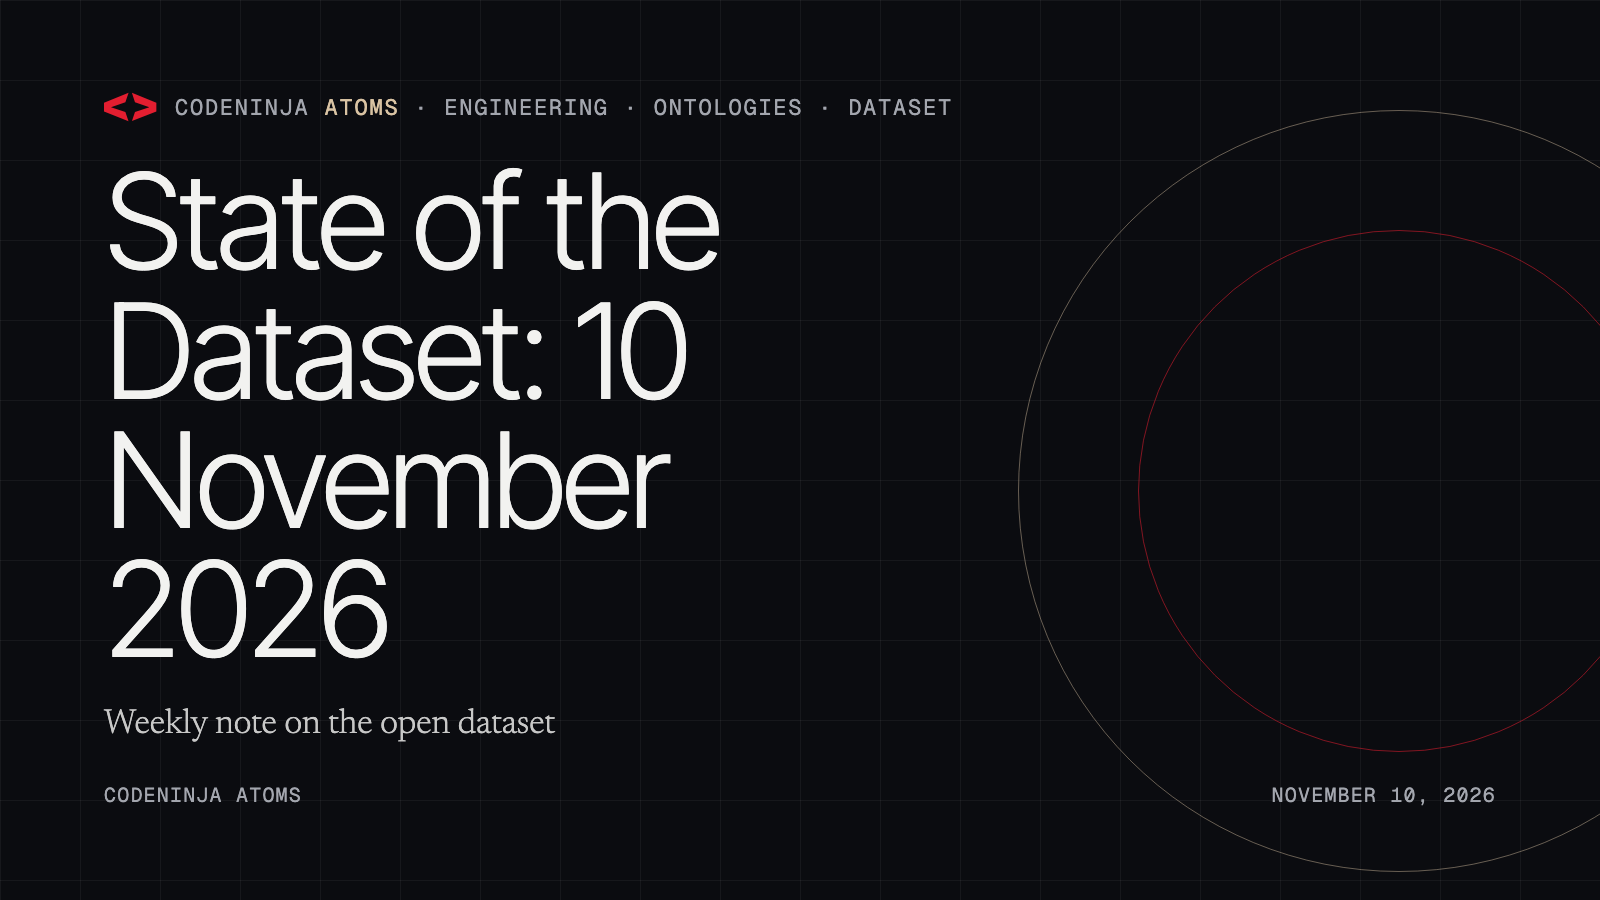
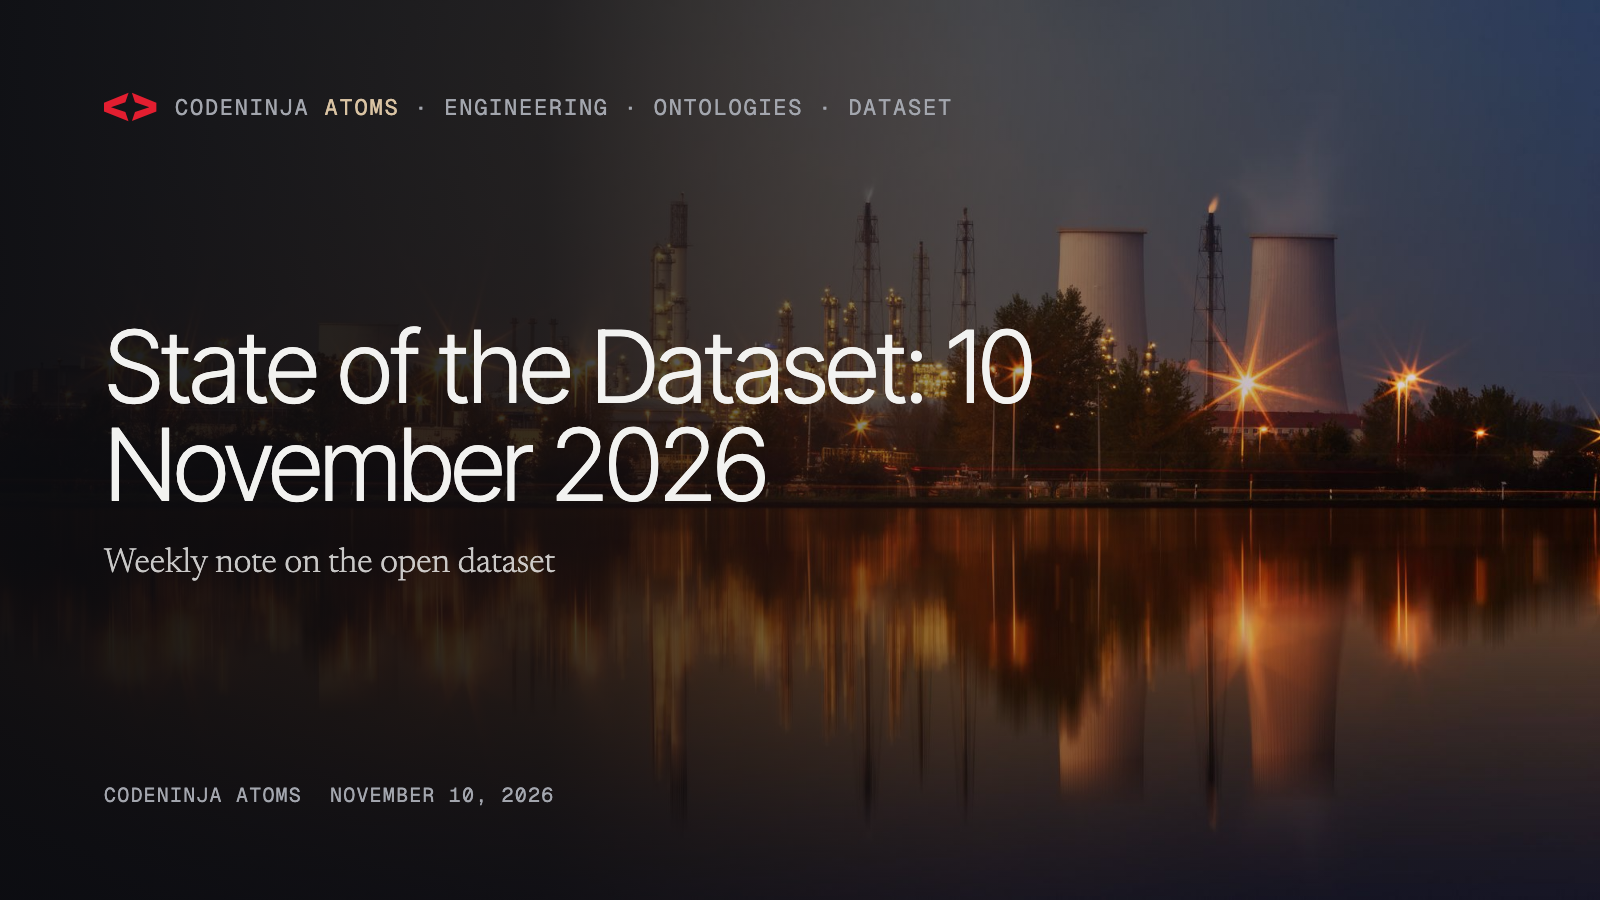
Blog covers are real photos: dataset note 10 Nov gets a process plant cover; blog.py refuses a post from 10 Nov without cover_photo
Umar, 10 Nov 2026: every blog cover is a real photo of the physical world under the CodeNinja Atoms mark, like the 18 Oct truck cover. The note's photo is Pexels 3105242 (Johannes Plenio, Pexels License), checked as an image: no legible operator name, sign or maker logo (a port crane photo and a plant photo carrying a maker's sign were rejected). Only the note's files and the tool are committed; every other rebuilt page was checked out.

diff --git a/blog/state-of-the-dataset-2026-11-10/index.html b/blog/state-of-the-dataset-2026-11-10/index.html
@@ -2,8 +2,8 @@
 <title>State of the Dataset: 10 November 2026 | CodeNinja Atoms</title><meta name="description" content="Weekly dataset note: 44 designs, 643 ontology objects, 565 register rows, 12 of 13 sectors, 16 new designs and the 12 cells still empty."><link rel="canonical" href="https://codeatoms.ai/blog/state-of-the-dataset-2026-11-10/">
 <link rel="alternate" type="application/atom+xml" href="https://codeatoms.ai/blog/feed.xml" title="CodeNinja Atoms engineering blog">
 <meta property="og:type" content="article"><meta property="og:title" content="State of the Dataset: 10 November 2026 | CodeNinja Atoms"><meta property="og:description" content="Weekly dataset note: 44 designs, 643 ontology objects, 565 register rows, 12 of 13 sectors, 16 new designs and the 12 cells still empty."><meta property="og:url" content="https://codeatoms.ai/blog/state-of-the-dataset-2026-11-10/">
-<meta property="og:image" content="https://codeatoms.ai/blog/state-of-the-dataset-2026-11-10/cover.png?v=bae5a255"><meta property="article:published_time" content="2026-11-10"><meta property="article:author" content="CodeNinja Atoms"><meta property="article:tag" content="Engineering"><meta property="article:tag" content="Ontologies"><meta property="article:tag" content="Dataset">
-<script type="application/ld+json">{"@context": "https://schema.org", "@type": "BlogPosting", "headline": "State of the Dataset: 10 November 2026", "description": "Weekly dataset note: 44 designs, 643 ontology objects, 565 register rows, 12 of 13 sectors, 16 new designs and the 12 cells still empty.", "alternativeHeadline": "Forty four published designs, 643 ontology objects and 565 register rows, covering twelve of thirteen sectors and twenty seven of the thirty nine cells in the sector by country grid.", "image": "https://codeatoms.ai/blog/state-of-the-dataset-2026-11-10/cover.png?v=bae5a255", "url": "https://codeatoms.ai/blog/state-of-the-dataset-2026-11-10/", "mainEntityOfPage": "https://codeatoms.ai/blog/state-of-the-dataset-2026-11-10/", "datePublished": "2026-11-10", "dateModified": "2026-11-10", "inLanguage": "en", "wordCount": 1305, "timeRequired": "PT6M", "keywords": ["Engineering", "Ontologies", "Dataset"], "articleSection": "Engineering", "license": "https://creativecommons.org/licenses/by/4.0/", "author": {"@type": "Person", "name": "CodeNinja Atoms", "jobTitle": "Research distribution", "url": null, "sameAs": null, "image": null}, "publisher": {"@type": "Organization", "@id": "https://codeatoms.ai/#org", "name": "CodeNinja Atoms", "url": "https://codeatoms.ai/", "logo": {"@type": "ImageObject", "url": "https://codeatoms.ai/icon-512.png"}}, "isPartOf": {"@type": "Blog", "@id": "https://codeatoms.ai/blog/#blog", "name": "CodeNinja Atoms engineering blog", "url": "https://codeatoms.ai/blog/"}, "citation": []}</script>
+<meta property="og:image" content="https://codeatoms.ai/blog/state-of-the-dataset-2026-11-10/cover.png?v=708e6743"><meta property="article:published_time" content="2026-11-10"><meta property="article:author" content="CodeNinja Atoms"><meta property="article:tag" content="Engineering"><meta property="article:tag" content="Ontologies"><meta property="article:tag" content="Dataset">
+<script type="application/ld+json">{"@context": "https://schema.org", "@type": "BlogPosting", "headline": "State of the Dataset: 10 November 2026", "description": "Weekly dataset note: 44 designs, 643 ontology objects, 565 register rows, 12 of 13 sectors, 16 new designs and the 12 cells still empty.", "alternativeHeadline": "Forty four published designs, 643 ontology objects and 565 register rows, covering twelve of thirteen sectors and twenty seven of the thirty nine cells in the sector by country grid.", "image": "https://codeatoms.ai/blog/state-of-the-dataset-2026-11-10/cover.png?v=708e6743", "url": "https://codeatoms.ai/blog/state-of-the-dataset-2026-11-10/", "mainEntityOfPage": "https://codeatoms.ai/blog/state-of-the-dataset-2026-11-10/", "datePublished": "2026-11-10", "dateModified": "2026-11-10", "inLanguage": "en", "wordCount": 1305, "timeRequired": "PT6M", "keywords": ["Engineering", "Ontologies", "Dataset"], "articleSection": "Engineering", "license": "https://creativecommons.org/licenses/by/4.0/", "author": {"@type": "Person", "name": "CodeNinja Atoms", "jobTitle": "Research distribution", "url": null, "sameAs": null, "image": null}, "publisher": {"@type": "Organization", "@id": "https://codeatoms.ai/#org", "name": "CodeNinja Atoms", "url": "https://codeatoms.ai/", "logo": {"@type": "ImageObject", "url": "https://codeatoms.ai/icon-512.png"}}, "isPartOf": {"@type": "Blog", "@id": "https://codeatoms.ai/blog/#blog", "name": "CodeNinja Atoms engineering blog", "url": "https://codeatoms.ai/blog/"}, "citation": []}</script>
 <link rel="preconnect" href="https://fonts.googleapis.com"><link rel="preconnect" href="https://fonts.gstatic.com" crossorigin><link href="https://fonts.googleapis.com/css2?family=Inter+Tight:wght@200;300;400;500&family=Geist+Mono:wght@400&family=Newsreader:opsz,wght@6..72,300;6..72,400&display=swap" rel="stylesheet"><script>document.documentElement.classList.add('js')</script><style>:root{--sans:"Inter Tight","Helvetica Neue",Arial,sans-serif;--mono:"Geist Mono","IBM Plex Mono",ui-monospace,Menlo,monospace;--serif:"Newsreader","Source Serif 4",Georgia,serif;
 --night:#0B0C10;--night2:#121319;--on-dark:#F2F2F0;--muted-d:#A3A6AE;--rule-d:rgba(255,255,255,.14);
 --paper:#F5F5F3;--paper2:#EFEFEF;--ink:#1E1F2B;--muted-l:#666874;--rule-l:rgba(30,31,43,.14);--red:#E31E30;--gutter:40px;--max:1280px}

diff --git a/tools/blog.py b/tools/blog.py
@@ -126,6 +126,10 @@ def cover(p):
     # Optional photo cover (Umar, 18 Oct 2026): front matter "cover_photo" names an image in blog/<slug>/; it fills the
     # tile under a left-to-right dark wash so the title stays readable. Posts without it keep the grid and rings.
     photo = p.get("cover_photo")
+    # Real photo covers are the rule from 10 Nov 2026 (Umar): a newer post without one stops the build instead of
+    # silently getting the abstract tile. Older posts keep their tiles until they are given a photo.
+    if not photo and p.get("date", "") >= "2026-11-10":
+        raise SystemExit(f"blog: {p['slug']} has no cover_photo; every post from 10 Nov 2026 needs a real physical-world photo cover")
     if photo:  # keep the title on two lines in the dark half, clear of the subject on the right
         fs, mw = min(fs, 100), "18ch"
     backdrop = (f'<div style="position:absolute;inset:0;background:url({E(photo)}) {E(p.get("cover_position", "center"))}/cover no-repeat"></div>'

diff --git a/blog/posts/state-of-the-dataset-2026-11-10.md b/blog/posts/state-of-the-dataset-2026-11-10.md
@@ -13,6 +13,9 @@
  ],
  "audience": "For engineers and their coding agents who build on the open dataset of physical AI system designs and want to know what is in it this week, what is new and where the gaps are.",
  "description": "Weekly dataset note: 44 designs, 643 ontology objects, 565 register rows, 12 of 13 sectors, 16 new designs and the 12 cells still empty.",
+ "cover_photo": "plant.jpg",
+ "cover_position": "center",
+ "cover_credit": "Photo by Johannes Plenio on Pexels (https://www.pexels.com/photo/3105242/), Pexels License",
  "cover_line": "Weekly note on the open dataset",
  "cluster": "dataset",
  "owned_keyword": "ontologies"

diff --git a/blog/state-of-the-dataset-2026-11-10/CREDITS.md b/blog/state-of-the-dataset-2026-11-10/CREDITS.md
@@ -1,0 +1,2 @@
+# Image credits
+- `plant.jpg`: "Lighted Buildings Near Body of Water", photo by Johannes Plenio, Pexels id 3105242, https://www.pexels.com/photo/lighted-buildings-near-body-of-water-3105242/ . Pexels License (https://www.pexels.com/license/): free for commercial use, attribution not required, modification permitted. Chosen 10 Nov 2026 as a process plant at dusk with no legible operator name, sign or equipment maker logo. Used as the post's cover and share image.
